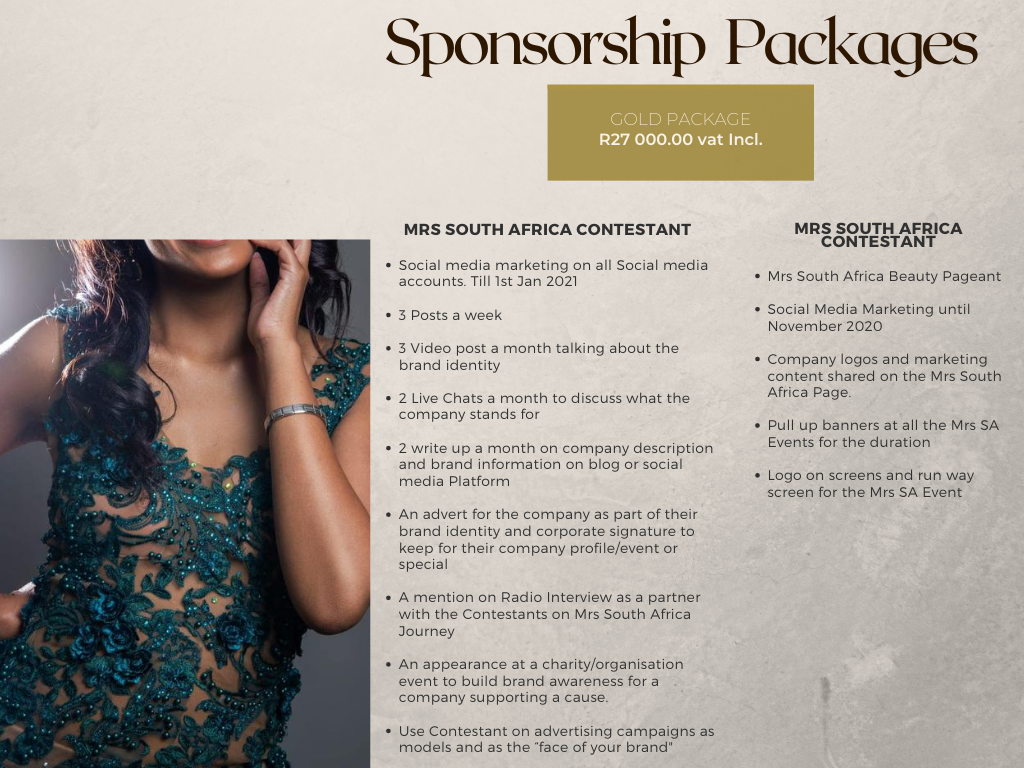
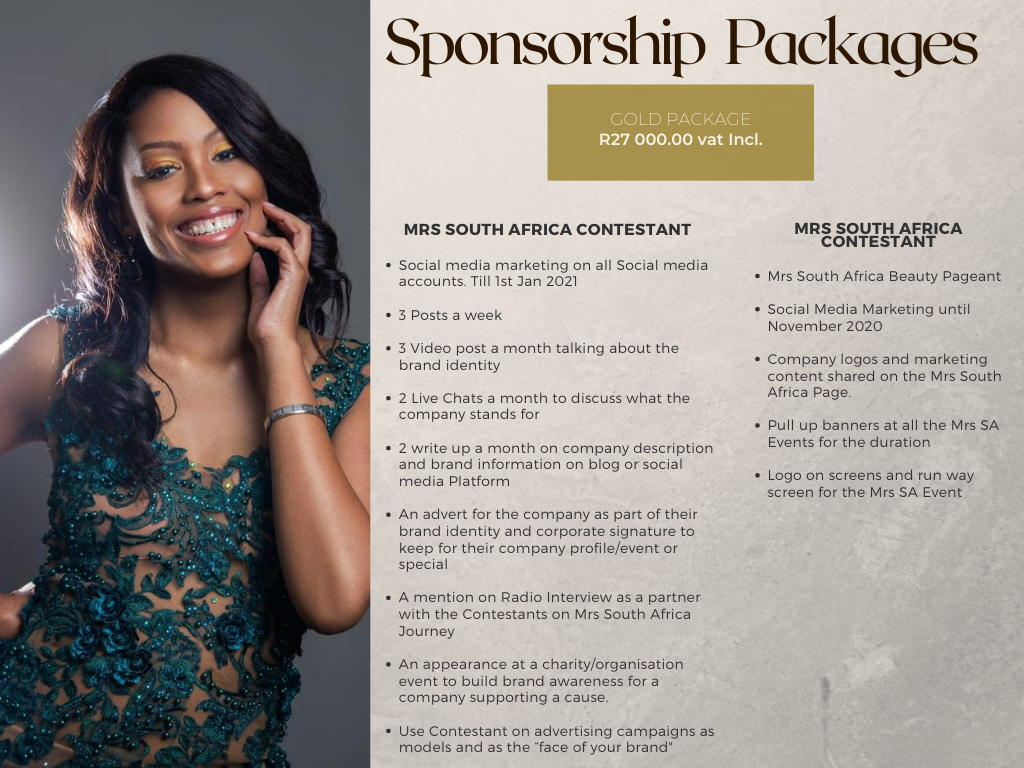
fixed sponsors bug

Changed region(s): [[0.0, 0.0, 0.375, 0.3125]]

diff --git a/index.html b/index.html
@@ -266,46 +266,46 @@
                       <div class="carousel-inner">
                         <div class="carousel-item active">
                           <a href="assets/img/1.png" data-gall="portfolioGallery" class="venobox">
-                            <div class="gallery-tile">
+                            <div class="sponsor-tile">
                               <img class="d-block w-100" src="assets/img/1.png" alt="First slide">
                             </div>
                           </a>
                         </div>
                         <div class="carousel-item ">
                           <a href="assets/img/4.png" data-gall="portfolioGallery" class="venobox">
-                            <div class="gallery-tile">
+                            <div class="sponsor-tile">
                               <img class="d-block w-100" src="assets/img/4.png" alt="First slide">
                             </div>
                           </a>
                         </div>
                         <div class="carousel-item ">
                           <a href="assets/img/5.png" data-gall="portfolioGallery" class="venobox">
-                            <div class="gallery-tile">
+                            <div class="sponsor-tile">
                               <img class="d-block w-100" src="assets/img/5.png" alt="First slide">
                             </div>
                           </a>
                         </div>
                         <div class="carousel-item ">
                           <a href="assets/img/6.png" data-gall="portfolioGallery" class="venobox">
-                            <div class="gallery-tile">
+                            <div class="sponsor-tile">
                               <img class="d-block w-100" src="assets/img/6.png" alt="First slide">
                             </div>
                           </a>                        </div>
                         <div class="carousel-item ">
                           <a href="assets/img/7.png" data-gall="portfolioGallery" class="venobox">
-                            <div class="gallery-tile">
+                            <div class="sponsor-tile">
                               <img class="d-block w-100" src="assets/img/7.png" alt="First slide">
                             </div>
                           </a>                        </div>
                         <div class="carousel-item ">
                           <a href="assets/img/8.png" data-gall="portfolioGallery" class="venobox">
-                            <div class="gallery-tile">
+                            <div class="sponsor-tile">
                               <img class="d-block w-100" src="assets/img/8.png" alt="First slide">
                             </div>
                           </a>                        </div>
                         <div class="carousel-item ">
                           <a href="assets/img/9.png" data-gall="portfolioGallery" class="venobox">
-                            <div class="gallery-tile">
+                            <div class="sponsor-tile">
                               <img class="d-block w-100" src="assets/img/9.png" alt="First slide">
                             </div>
                           </a>                        </div>

diff --git a/wellness.html b/wellness.html
@@ -163,7 +163,19 @@
                   <div class="">
                     <p class="lead">
                       <br>
+                      <br>
+                      Healthy skin is largely a reflection of good general health.
+                      As such the skin’s appearance is influenced by the consumption of dietary supplements,
+                      including vitamins and antioxidants, and the effects of nutrition on the skin have received
+                      increasing attention. A number of clinical studies have shown that dietary supplementation can
+                      improve skin condition, and reverse the signs of ageing.
 
+                      <br>
+                      VERISOL® is the key ingredient in Collagen Lift.
+                      Recent clinical trials have shown that a daily dose of 5g of Collagen Lift significantly
+                      reduces wrinkle depth after four weeks, and almost doubled its effect after 8 weeks.
+                      <br>
+                      <a class="button button-a button-small button-rouded" href="https://collagenliftparis.co.za/" role="button">Visit Website</a>
                     </p>
 
                   </div>
@@ -364,9 +376,9 @@
                     Higher concentration actives
                   </li>
                   </ul>
+                  <br>
                   <a class="button button-a button-small button-rouded" href="https://lamelle.co.za/" role="button">Visit Website</a>
                   </p>
-
                 </div>
               </div>
             </div>

diff --git a/assets/css/style.css b/assets/css/style.css
@@ -38,11 +38,6 @@ body {
 /*  background-color: #fcfcfc;*/
 /*}*/
 
-/*.carousel-item .sr-only {*/
-/*    !*width:100%; height:50px;*!*/
-/*    !*justify-content: center;*!*/
-/*    color: black;*/
-/*}*/
 
 h1,
 h2,
@@ -1496,10 +1491,35 @@ footer .credits a {
   object-fit: cover;
 }
 
-.gallery-tile{
-  width: 100%;
-  height: 600px;
+
+.sponsor-tile{
   overflow: hidden;
+  width: 100%;
+  height: 700px;
+}
+
+/*.gallery-tile{*/
+/*  !*width: 100%;*!*/
+/*  !*height: 600px;*!*/
+/*  !*overflow: hidden;*!*/
+/*  overflow: hidden;*/
+/*  max-width: 100%;*/
+/*  height:100%;*/
+/*  vertical-align: middle;*/
+/*  object-fit: cover;*/
+/*}*/
+
+/*.carousel-inner > .item {*/
+/*  height: 400px;*/
+/*}*/
+
+.carousel-item {
+  position: 50% 50%;
+  size: cover;
+
+  /*width:100%;*/
+  /*height: 400px;*/
+  /*justify-content: center;*/
 }
 
 

diff --git a/brentoni.html b/brentoni.html
@@ -223,6 +223,8 @@
                       <br>
                       With hundreds of different styles to choose from, there is a pair for you.
                       100% UV lenses and quality frames give you the best value for money around.
+                      <br>
+                      <a class="button button-a button-small button-rouded" href=" http://www.brentoni.co.za/" role="button">Visit Website</a>
                     </p>
 
                   </div>
